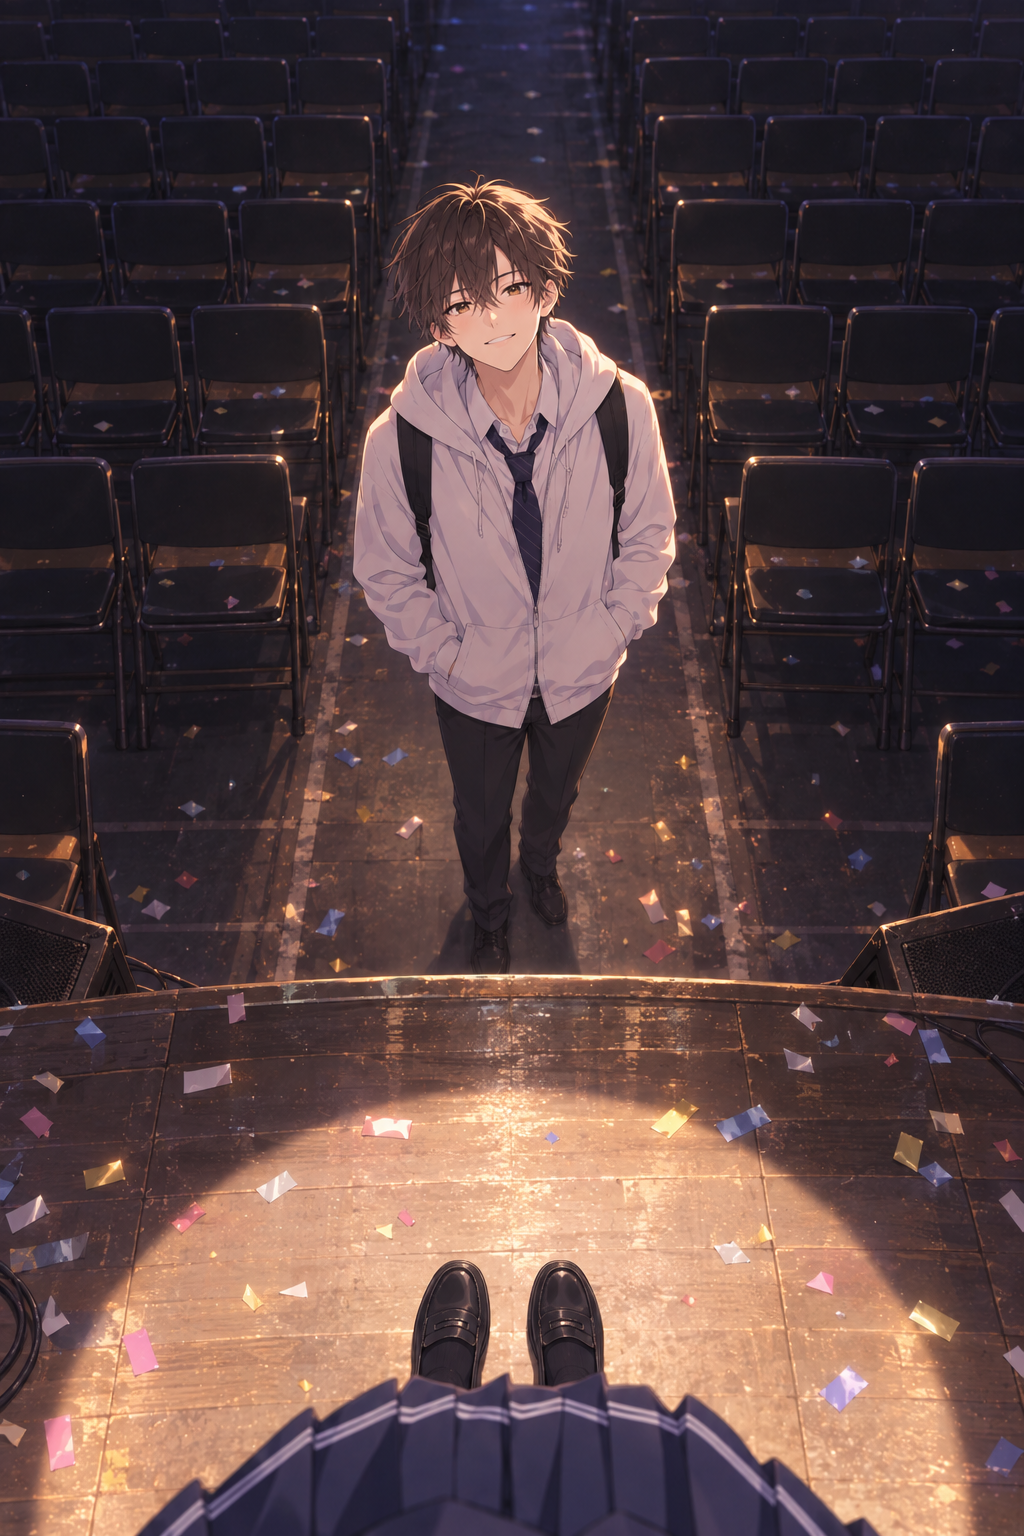
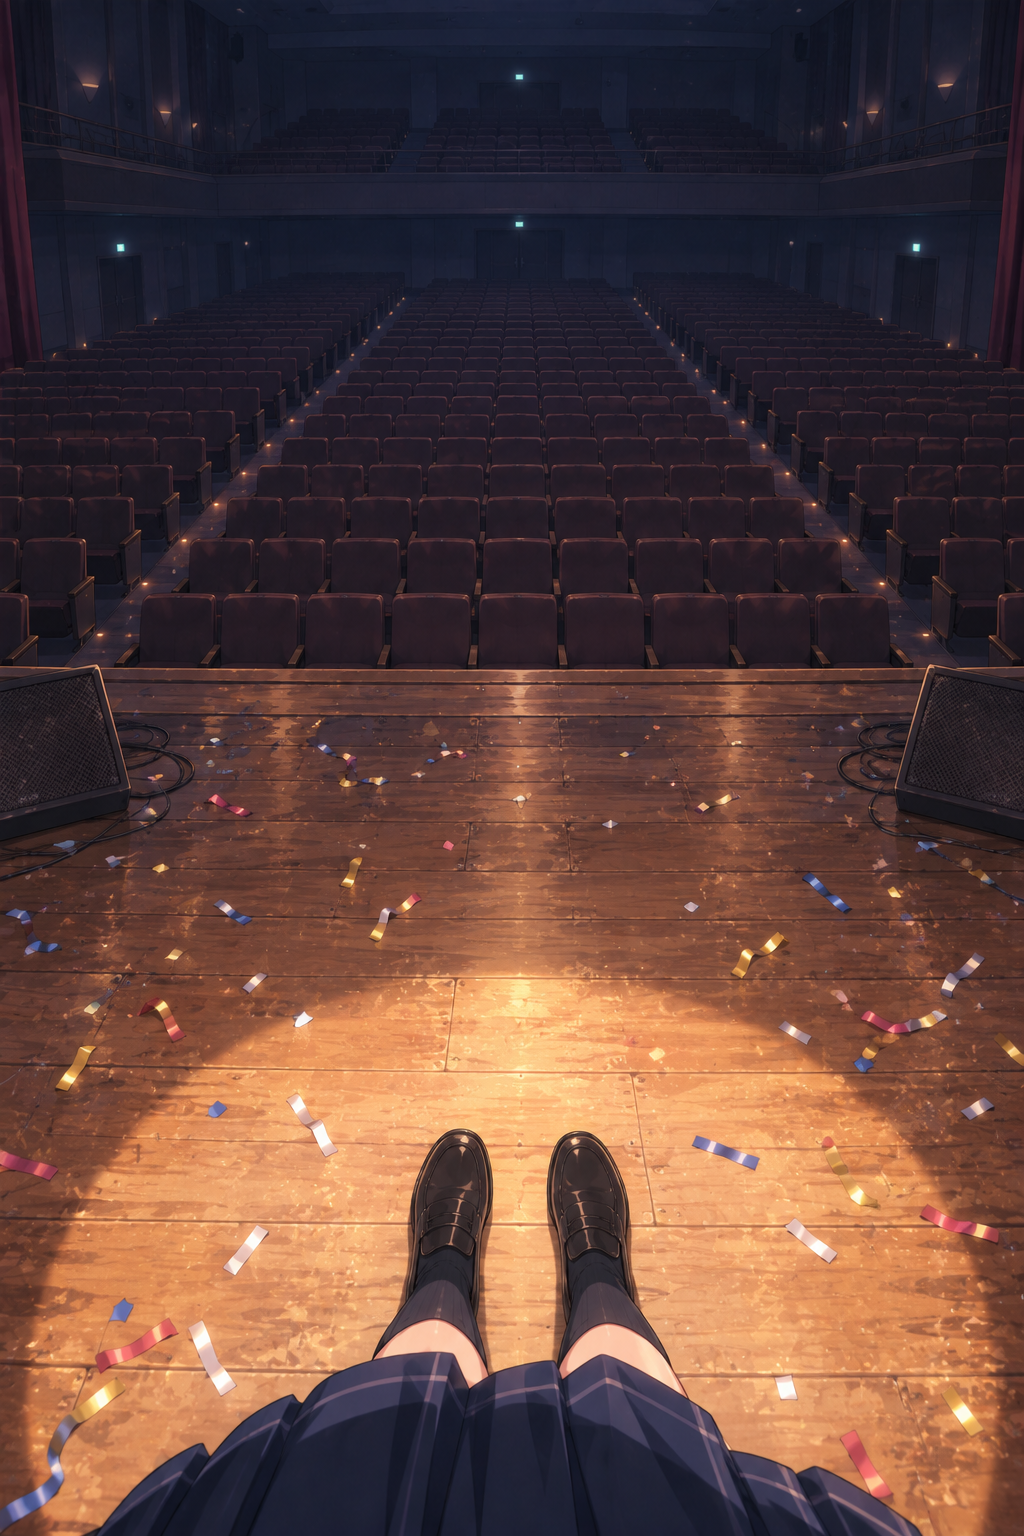
subchar: FEED tangle becomes a pile of photos; the empty stage is empty
"복잡하게 서로 얽혀져" no longer draws knotted lines: his posts, her secret
photos of him and her own selfies drop into one pile on each syllable, swirl
the opposite ways, knot into a ball and squeeze into the dot. The last stage
picture has no one in the seats, so nobody stares back at the viewer.

Claude-Session: https://claude.ai/code/session_01HrBhfDZpzKVpSu4P6C2Emc

diff --git a/subchar/feed/shots2.js b/subchar/feed/shots2.js
@@ -80,18 +80,24 @@ function V2(t) {
     const ss = spr(t, [[0, 0], [S(37) + .4, 1, 2.2, .38]]); if (ss > .01) { g.save(); g.translate(360, 1260); g.scale(ss, ss); g.rotate(-.05); blob(0, 0, 440, 600, { col: WHITE, round: .1 }); photo('pov_you_alone', 0, -20, 400, 520, { fx: .5, fy: .45, r: 20, bg: '#DDE3EA', filter: 'saturate(.7)' }); pillText(0, 270, 'YOU · 스토리', { size: 28, w: 600, col: INK }); g.restore() }
     g.globalAlpha = 1;
   }
-  // L38-39 everything tangles: lines between faces knot and wriggle, then pull into one point
+  // L38-39 everything gets mixed up: his posts, her secret photos of him and her own selfies drop into one pile on each syllable;
+  // on 얽혀져 the pile swirls, each photo the other way, knots into a ball, and the ball is squeezed into the dot
   if (t > S(38) - .2) {
-    const pull = eIn(seg(t, E(39) - .5, .7)), a = seg(t, S(38) - .1, .6);
-    const ends = [['you_front', 200, 500], ['me_portrait', 880, 560], ['you_stage', 220, 1500], ['me_portrait', 860, 1420], [null, 540, 300], [null, 540, 1700]];
-    for (let k = 0; k < 9; k++) { const A = ends[k % 6], B = ends[(k * 5 + 2) % 6], ph = t * (1.1 + .2 * k) + k;
-      const ax = lerp(A[1], CX, pull), ay = lerp(A[2], 1000, pull), bx = lerp(B[1], CX, pull), by = lerp(B[2], 1000, pull);
-      g.save(); g.strokeStyle = [MECOL, YEL, TEAL, YOUCOL, PEACH, WHITE][k % 6]; g.lineWidth = 8 + 4 * a; g.lineCap = 'round'; g.globalAlpha = a; g.beginPath(); g.moveTo(ax, ay);
-      g.bezierCurveTo(CX + Math.sin(ph) * 420 * (1 - pull), 900 + Math.cos(ph * 1.3) * 500 * (1 - pull), CX + Math.cos(ph * .8) * 420 * (1 - pull), 1100 + Math.sin(ph * 1.1) * 500 * (1 - pull), bx, by); g.stroke(); g.restore() }
-    ends.forEach(([id, x, y], k) => { if (!id) return; const s = spr(t, [[0, 0], [S(38) + k * .12, 1, 2.6, .35]]) * (1 - pull); if (s > .01) avatar(id, lerp(x, CX, pull), lerp(y, 1000, pull), 70 * s) });
-    cap(t, 38, 0, null, CX, 900, { size: 54, w: 600, col: WHITE, al: 'center', hide: S(39) - .1 });
-    cap(t, 39, 0, null, CX, 1120, { size: 60, w: 700, col: WHITE, al: 'center', alpha: 1 - pull });
-    if (pull > .5) blob(CX, 1000, 40, 40, { col: MECOL });
+    const PILE = ['mem_class', 'pov_hallway', 'me_envy', 'you_crowd', 'pov_window', 'me_cry', 'mem_award', 'pov_stage', 'me_portrait', 'mem_sunset', 'pov_zoom', 'me_angry'];
+    const c38 = chars(38), c39 = chars(39), knot = eIO(seg(t, S(39), E(39) - S(39) - .3)), pull = eIn(seg(t, E(39) - .45, .6)), Py = 1000;
+    PILE.forEach((id, k) => {
+      const t0 = k < c38.length ? c38[k].t - .05 : c39[k - c38.length].t - .05; if (t < t0 - .4) return;
+      const hx = (R(k, 1) - .5) * 620, hy = (R(k, 2) - .5) * 820, r0 = Math.hypot(hx, hy), a0 = Math.atan2(hy, hx), dir = k % 2 ? 1 : -1;
+      const a = a0 + knot * dir * (1.6 + (k % 3) * .7), rr = r0 * (1 - .8 * knot) * (1 - pull), sc = (1 - .45 * knot) * (1 - pull);
+      const y = t < t0 + .35 ? fall(t, t0 - .4, t0 + .35, -1300, Py + hy) : Py + Math.sin(a) * rr, x = t < t0 + .35 ? CX + hx : CX + Math.cos(a) * rr;
+      if (sc < .02) return;
+      g.save(); g.translate(x, y); g.rotate((R(k, 3) - .5) * .8 + knot * dir * 2.4); g.scale(sc, sc * (1 - .3 * wob(t - t0 - .35, .4)));
+      blob(0, 8, 300, 380, { col: 'rgba(0,0,0,.3)', round: .1 }); blob(0, 0, 300, 380, { col: WHITE, round: .1 });
+      photo(id, 0, -14, 272, 324, { r: 14, fx: .5, fy: .35, bg: '#E7E2EC' }); g.restore();
+    });
+    cap(t, 38, 0, null, CX, 330, { size: 54, w: 600, col: WHITE, al: 'center', hide: S(39) - .1 });
+    cap(t, 39, 0, null, CX, 1700, { size: 60, w: 700, col: WHITE, al: 'center', alpha: 1 - pull });
+    if (pull > .5) blob(CX, Py, 40 + 30 * wob(t - E(39) + .1, .5), 40, { col: MECOL });
   }
 }
 

diff --git a/subchar/tools/gen_pov.py b/subchar/tools/gen_pov.py
@@ -25,7 +25,7 @@ POV = [
  ("pov_hands", "1536x1024", "First-person close view at sunset: ME's hand (navy sailor sleeve) holds YOU's hand (white hoodie sleeve), fingers interlaced, reaching forward from the bottom of the frame into warm golden light over the city. Only hands and forearms."),
  ("pov_zoom", "1024x1536", "First person in a busy school cafeteria at lunch: ME's two hands (navy sailor sleeves) hold up a smartphone in the foreground; the phone screen shows the camera zoomed in on YOU far across the room, laughing with friends at a table; beyond the phone the real room is soft and far. She is secretly looking at him."),
  ("pov_you_alone", "1024x1536", "First person from the bottom of an empty school stairwell at dusk: YOU sits alone halfway up the stairs, head down, arms on his knees, his phone dark in his hand; cold blue shadows with one last orange light from a high window; no one else around. For the first time he looks lonely and hurt."),
- ("pov_empty_stage", "1024x1536", "First person standing alone on the empty school festival stage after the show: looking down and out, one spotlight circle on the floor around her feet (navy pleated skirt hem and black school shoes visible at the bottom), rows of empty seats in the dark hall, confetti scattered on the stage floor. Quiet, bittersweet."),
+ ("pov_empty_stage", "1024x1536", "First person standing alone on the empty school festival stage after the show: looking down and out, one spotlight circle on the floor around her feet (navy pleated skirt hem and black school shoes visible at the bottom), rows of empty seats in the dark hall, confetti scattered on the stage floor. Quiet, bittersweet. NO PEOPLE at all: the hall and every seat are completely empty, nobody in the audience, nobody looking back."),
  ("me_portrait", "1024x1024", "PORTRAIT: The profile picture of the girl ME: front-facing, head and shoulders, centred, looking at the camera with a small shy smile, soft window light, plain pale background. Simple and clean, suitable for a round avatar."),
  ("pov_sky", "1024x1536", "A photo ME took herself: looking up at a wide clear evening sky from the rooftop, a few pink clouds, the top edge of the fence and a paper plane gliding across. Hopeful and open. No person."),
 ]
